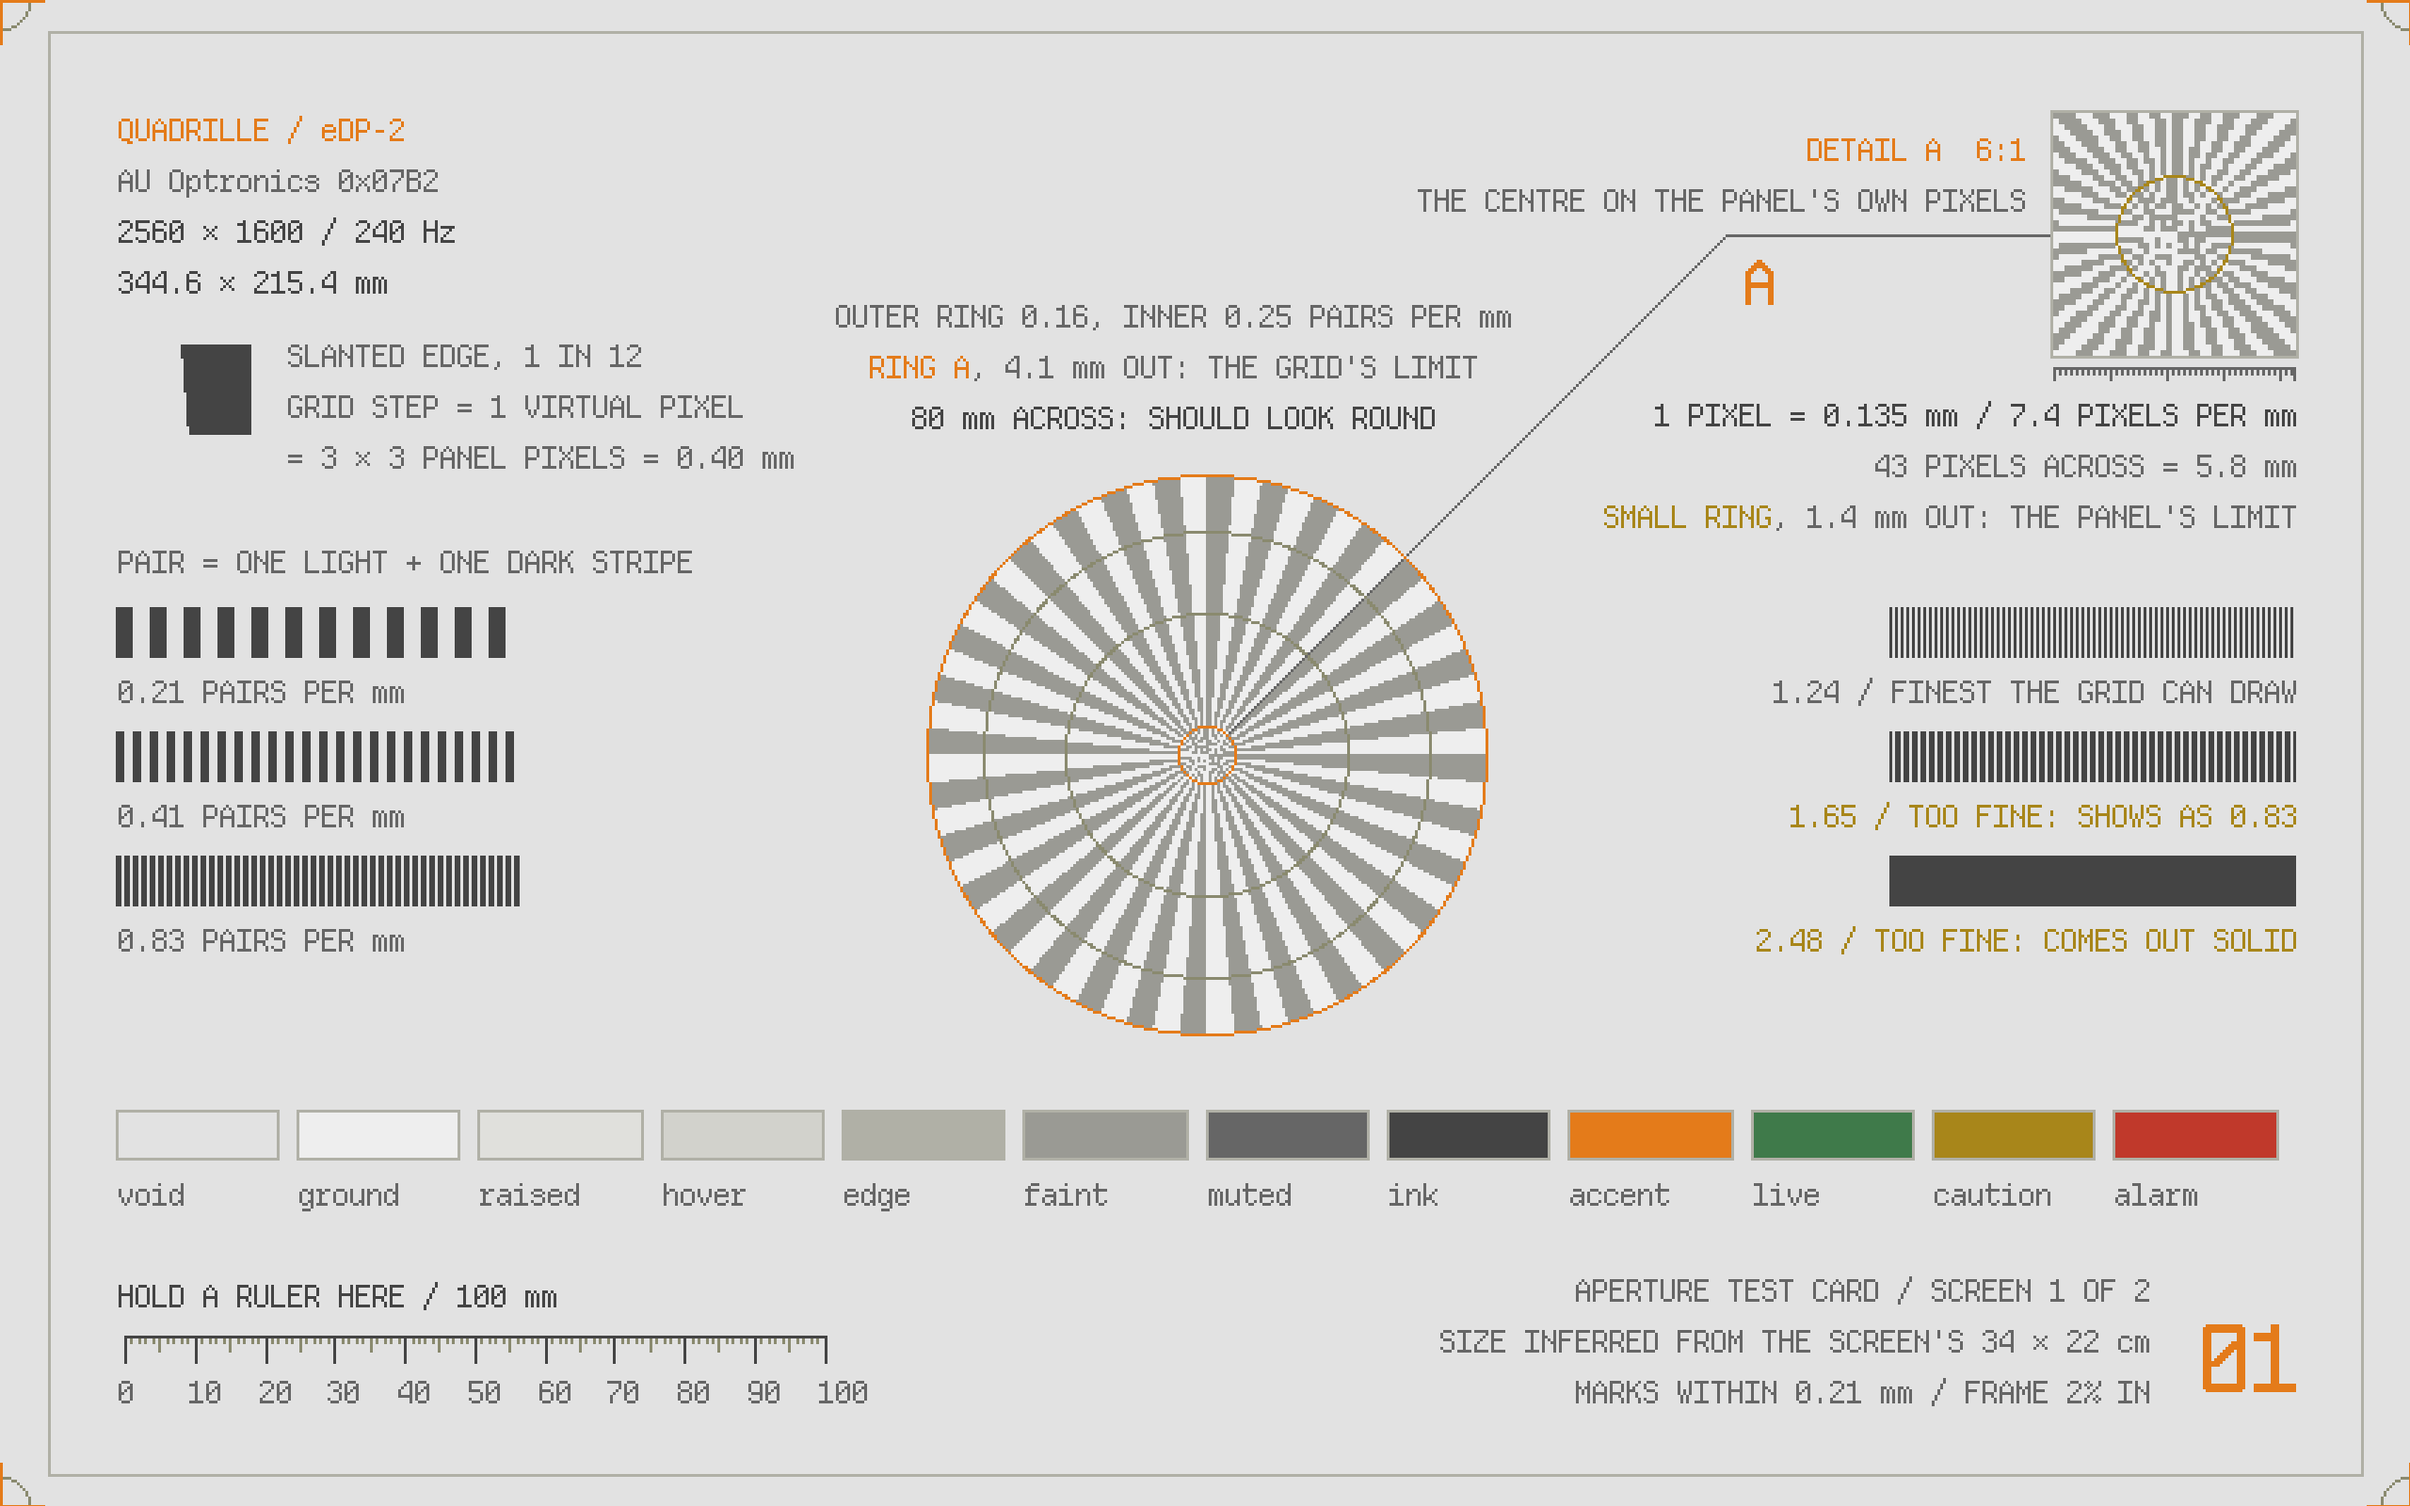
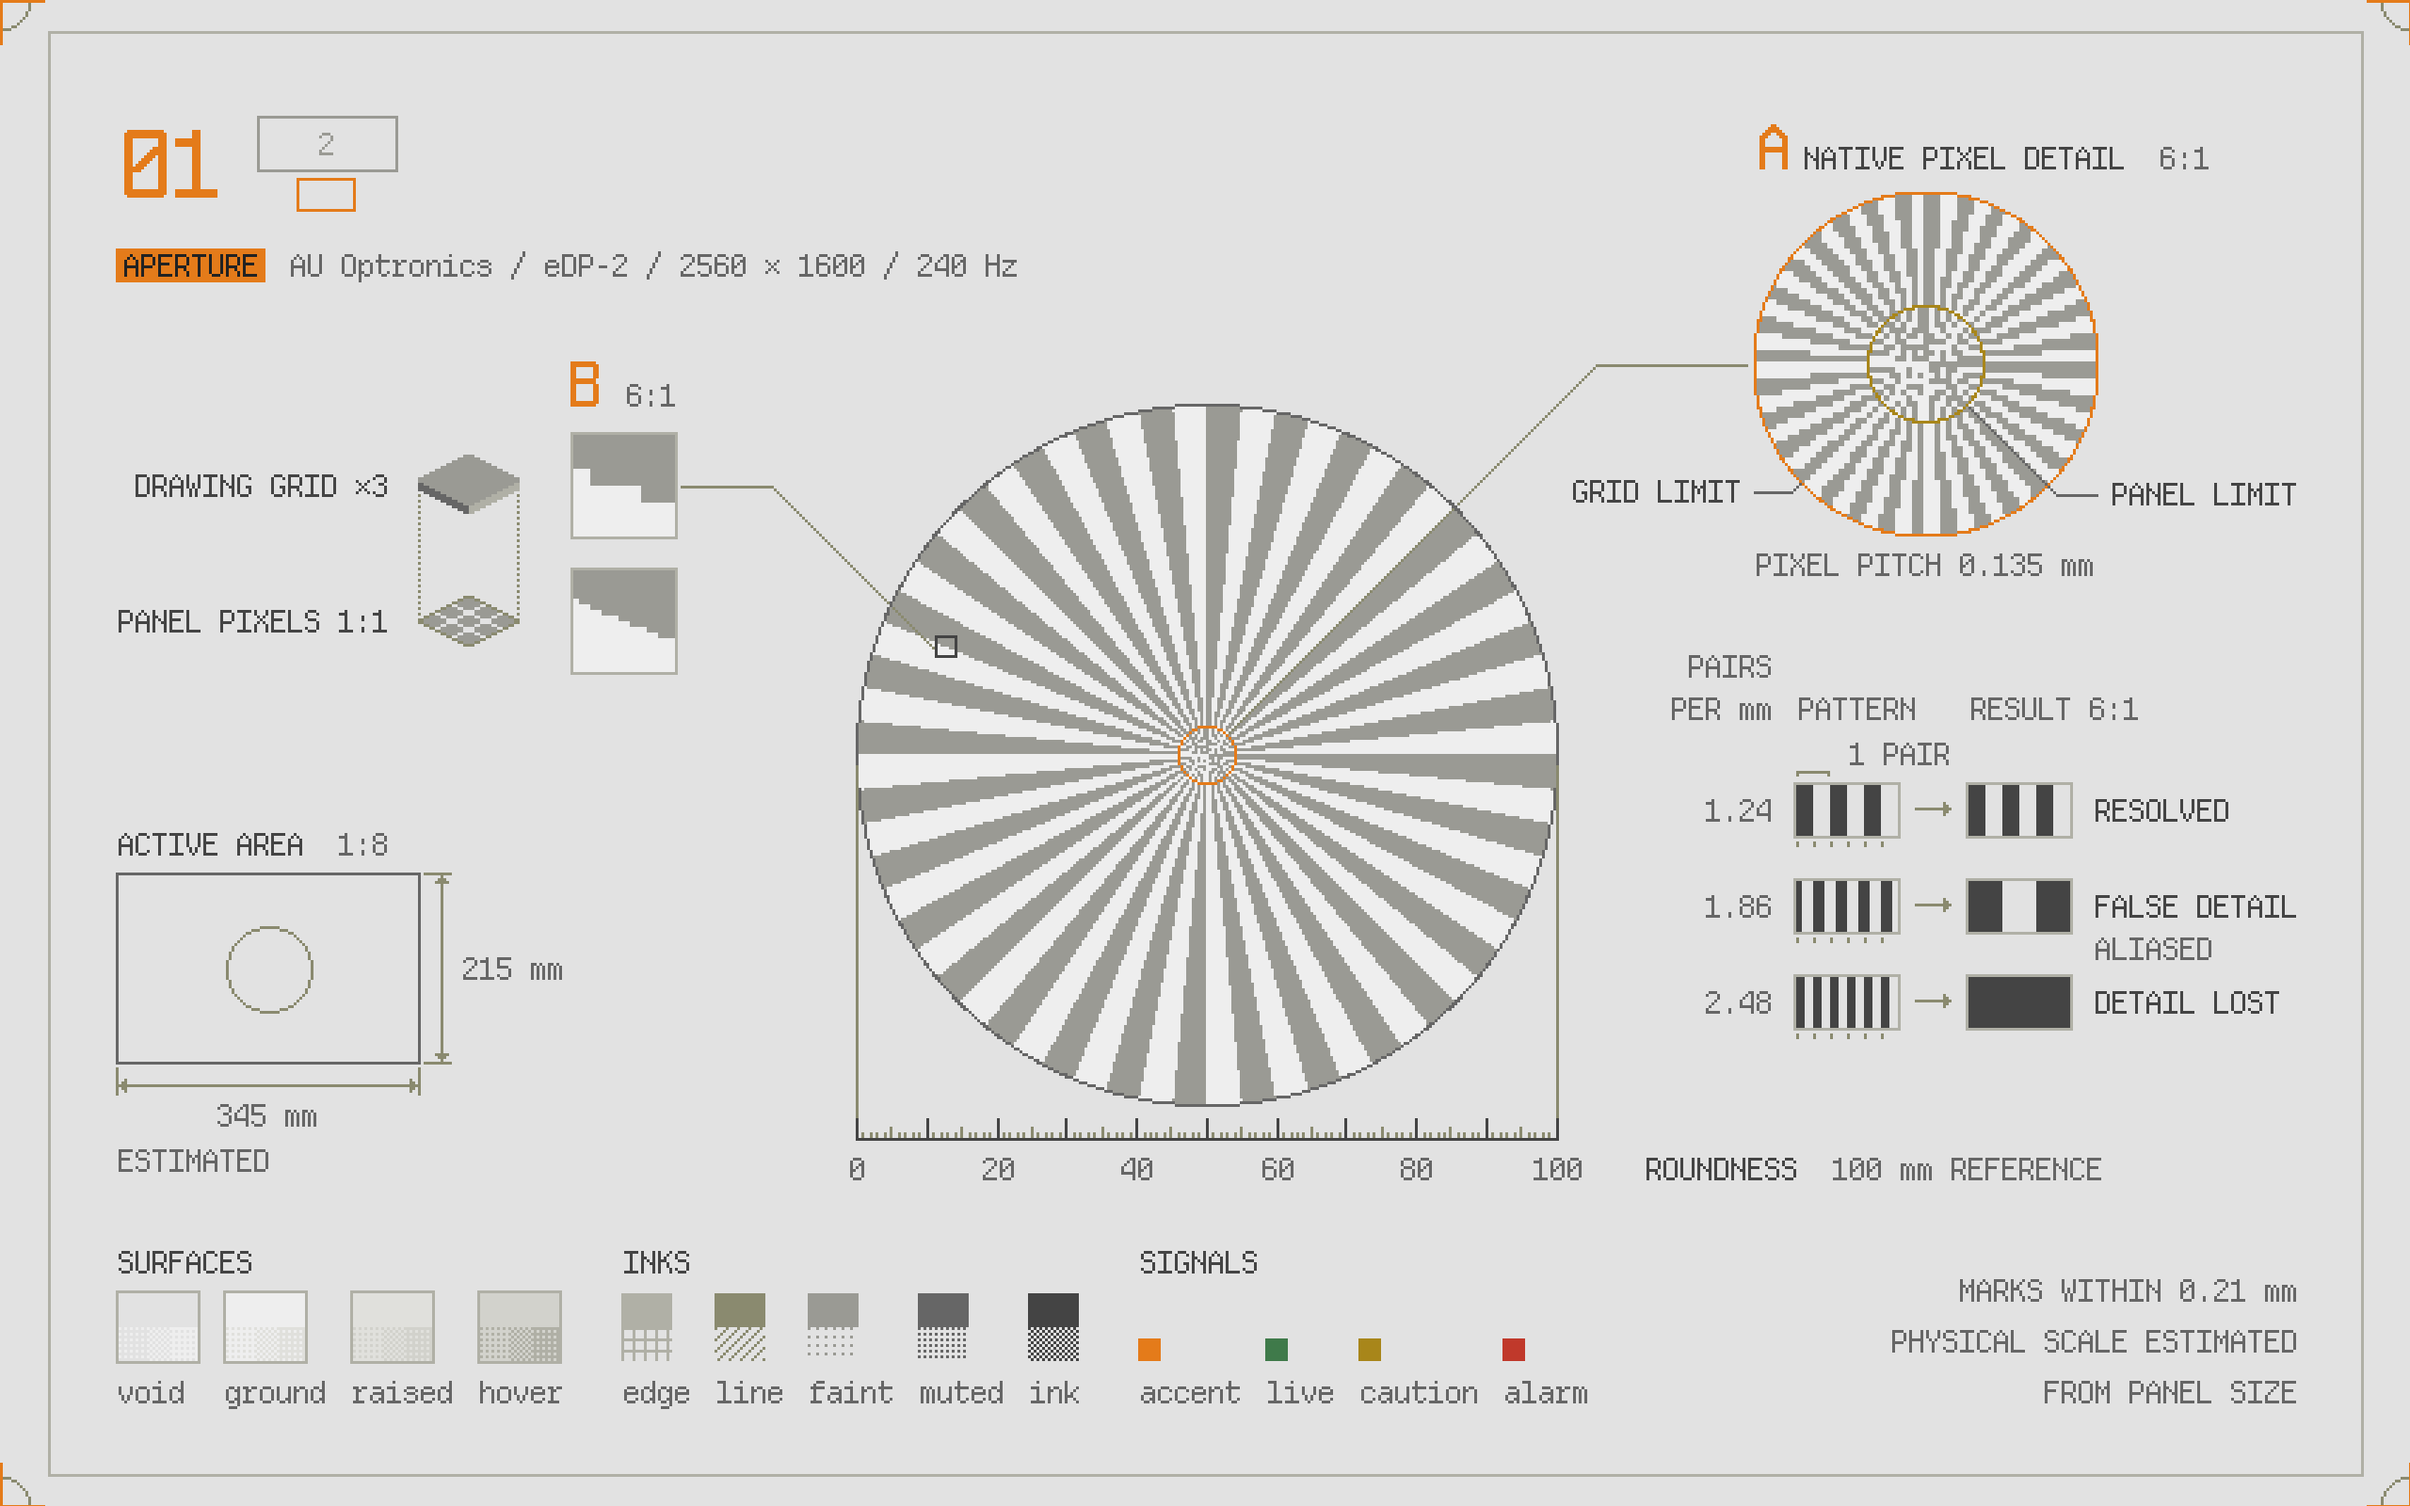
Document the portrait sheet; new test-card screenshots

diff --git a/plugins/NOTES.md b/plugins/NOTES.md
@@ -1101,46 +1101,53 @@ changes**: give it a count, or a model that is edited in place. If a popup is ev
 
 ## Design
 
-Aperture is the per-output test card: a central 32-pair Siemens star, labelled
-stripes, the theme's roles as swatches, a slanted edge, corner marks, a 2% frame and
-a 1:1 ruler, laid out inside the frame with a 24 vpx gutter. Corners balance: the
-callsign (top left), DETAIL A (top right), the ruler (bottom left), the title block
-and the native large screen number (bottom right); the palette runs above them.
+APERTURE is a technical portrait of one display, drawn on that display's own grid.
+Reading order: the star (the main drawing) -> the few labels on it and its two views
+-> the technical details. Hierarchy comes only from native sizes (the 3x numeral, 2x
+callout letters, the body face), colour role (`ink` names features, `muted` carries
+numbers, `line` is construction, quieter than what it explains) and one inverse label,
+APERTURE. Each part is a module drawing whole virtual pixels through `Pen.js`; the star,
+DETAIL A and B all sample one function (`Star.js`), so they are views of one thing.
 
-**Star tone.** Full-contrast ink on void was the loudest thing on the desktop. The
-wedges are now `faint` on `ground` (a quiet disc), chosen from three role pairs
-rendered for TERMINAL and PAPER (`wallpaper.py --explore`): `edge` on ground was
-calmest but fades to 1.6-1.9:1 (WCAG) in four themes; `muted` on ground (4.1-6.5:1)
-is still loud. Faint on ground (1.9-2.5:1 in all five) keeps the 32 pairs and the
-centre's noise plainly visible in every theme. Full contrast stays where contrast is the point: the
-stripes and the slanted edge. The detail view uses the star's own tones, so it reads
-as the same object.
+**Layout** (the critique's map, chosen from three rendered arrangements: "corners",
+"subjects" (the display left, the grid right: an overloaded right column on the
+laptop) and "chain" (the star off centre with its views beside it: on the laptop the
+star fell to 50 mm); renders under `/tmp/quadrille-portrait-20261007/arrangements/`).
+Top left the monitor's number with the locator (every output in the compositor's
+configured layout, this one in accent) and one metadata line (the model is dropped
+before anything is cut); B under it; DETAIL A top right with the samples under it; the
+elevation bottom left; the materials and one note along the bottom. Parts are placed
+first, then the star is the largest whole 10 mm that clears them by 16 vpx (100 mm on
+the laptop, 180 on the Dell); a part that leaves no 60 mm star makes way whole. Tall
+sheets put B and DETAIL A side by side above the star and drop the materials.
 
-**Words.** Every label is a plain, true sentence: PAIR = ONE LIGHT + ONE DARK STRIPE,
-TOO FINE: SHOWS AS 0.83, SHOULD LOOK ROUND, SIZE INFERRED FROM THE SCREEN'S 34 x 22
-cm. "Virtual pixel" is defined once, beside the slanted edge whose steps show it.
+**The star** is faint on ground with a muted rim; its accent grid-limit ring (32/pi vpx)
+is the detail circle A. Its diameter is dimensioned from its widest points and the
+dimension line is the millimetre scale: ROUNDNESS and the 100 mm REFERENCE are one
+drawing. **DETAIL A** is exactly the disc inside that ring at 6:1 on the panel's own
+pixels, so its accent rim is the same ring: GRID LIMIT on the rim, PANEL LIMIT on the
+caution ring (32/pi panel pixels), and the pixel pitch. **B** takes an 8 x 8 (6 x 6 on
+the laptop) window of the star's own pixels at a wedge edge, marked on the star and led
+to the view, and shows it on the drawing grid (each step x3 on the laptop, x2 on the
+Dell) and on the panel's pixels, with one grid pixel lifted off its ps x ps panel pixels
+in 2:1 isometric. It depicts the renderer's grid, never the panel's construction.
+**PATTERN -> RESULT**: gratings of 2, 4/3 and 1 vpx period at 6:1, their results drawn
+by the sheet's own raster (a point sample at each virtual pixel; the grid's sample
+points are ticked under the pattern): RESOLVED, FALSE DETAIL (ALIASED: a 4 vpx period),
+DETAIL LOST (a flat patch); pairs per mm defined once. **The elevation** is the active
+area at its true aspect at a stated 1:N that holds on screen (1:8 on both outputs):
+whole millimetres and ESTIMATED when inferred from EDID, `~` when assumed, one decimal
+when measured; the star's circle is drawn in it at the same scale. **The materials**:
+SURFACES flat over a stepped Bayer ramp to the next surface, INKS flat over the ink as
+grid, hatch, dots and Bayer, SIGNALS as small chips. One footer note carries the
+physical-scale qualification with the mark tolerance.
 
-**Limits.** Ring A (accent) is where the wedges turn to noise on the virtual grid
-(32/pi vpx from the centre). The right-hand stripes are that limit and what lies past
-it: 2 vpx (the finest the grid draws), 1.5 vpx (aliases to half its frequency), 1 vpx
-(comes out solid). The old "panel limit" stripe was a 1.24 lp/mm alias labelled 3.71;
-the panel's limit is now shown only where it is true: DETAIL A redraws the star's
-centre on the panel's own pixels, each one a block of whole virtual pixels (6:1 on
-both outputs: 2 vpx a pixel on the laptop, 3 on the Dell), with ring A and the
-panel's own limit ring (caution, 32/pi pixels) drawn in it, a pixel scale, the pitch
-(0.135 / 0.232 mm, 7.4 / 4.3 pixels per mm) and the pixels across. A 45-degree
-leader leaves ring A along a wedge boundary to the inset; where a shoulder does not
-fit (portrait), a short leader ends at the letter A.
+`Role.onAccent` did not follow a theme change inside the wallpaper (it stayed at its
+default while every other role updated); Graticule.qml reads it through `Role.stated`.
 
-Rings are drawn the way a pixel artist draws them (pixels within half a pixel of the
-radius), so the outline is 8-fold symmetric with no nubs at the compass points.
-
-`python3 plugins/tools/wallpaper.py OUT` renders every case (the real layout from each
-output, side by side, stacked, three outputs, portrait, single, estimated, 1920x1080 at
-1, 2560x1440 at 1.5) in all five themes and checks rulers, wedges against independent
-angles, ring pair counts and frequencies, bursts, the inset pixel by pixel, swatch
-outlines, outline roundness and crisp.py; `node plugins/tools/wallpaper-test.js`
-asserts the geometry (nothing dropped, nothing touching). `--nested` (QA/QB, GPU)
-passed too. The physical model, the live overlay, event-driven redraw and the Settle
-first-frame gate are unchanged. Not yet seen live: the session was locked when the
-refinement was finished, and a locked shell is never restarted.
+Checks: `node plugins/tools/wallpaper-test.js` (the geometry of every case),
+`python3 plugins/tools/wallpaper.py OUT` (QML renders of every case in five themes,
+crisp.py, and each module's PNG check from `plugins/tools/aperture/`), and per module
+`node plugins/tools/aperture/<module>-test.js`; `plugins/tools/aperture/element.py`
+renders one module alone. The physical model, the live overlay, event-driven redraw and
+the Settle first-frame gate are unchanged.

diff --git a/README.md b/README.md
@@ -6,9 +6,11 @@ Omarchy themes, Departure Mono drawn without antialiasing in every toolkit, a
 whole-pixel QML bar, menu, OSD and notifications for the Omarchy shell, and
 panels drawn by quadrille itself as Wayland layer-shell surfaces.
 
-The desktop is a calibrated drawing set: active monitor elevations, a true-size
-100 mm ruler and a sparse sheet frame. Its click-through cursor draws live CAD
+Each monitor's wallpaper, APERTURE, is a calibrated technical portrait of that
+display, drawn on its own pixel grid. Its click-through cursor draws live CAD
 measurements that update as the pointer moves whenever the overlay is enabled.
+
+![APERTURE on the laptop (eDP-2, 3 physical pixels per virtual pixel)](plugins/screenshots/testcard-terminal-laptop.png)
 
 ![The five themes, as the bar draws them](plugins/screenshots/themes.png)
 
@@ -83,15 +85,18 @@ and 796.6 × 333.5 mm; these are inferred sizes. A mark rounds to the nearest vp
 half a vpx, conservatively rounded upward; it is not a calibration guarantee.
 Missing EDID uses an explicitly estimated density and `~` labels.
 
-Each output draws its own static test card: a calibrated Siemens star in quiet
-theme tones, labelled stripes, the theme's role colours as outlined swatches, a
-slanted edge, corner marks, a 2% frame and a true-size ruler. The card says what
-it shows in plain words, and what this grid cannot show: ring A marks where the
-star turns to noise on the virtual-pixel grid, and DETAIL A redraws the centre on
-the panel's own pixels at 6:1 with their pitch. Inferred sizes say so; unknown
-ones carry `~`. Binary patterns are precomputed into an exact texture on
-display/theme events; the wallpaper does no work between changes. The live cursor
-overlay is separate.
+Each output draws its own static sheet, APERTURE: the monitor's number beside a
+miniature of the configured desktop layout; a calibrated Siemens star (100 mm on the
+laptop, 180 on the Dell) whose diameter dimension is a true-size millimetre scale;
+DETAIL A, the disc inside the star's grid-limit ring redrawn 6:1 on the panel's own
+pixels; B, one virtual pixel taken apart into its 3 x 3 (laptop) or 2 x 2 (Dell) panel
+pixels beside an edge of the star at both resolutions; fine stripes beside what the
+grid really draws from them (resolved, false detail, detail lost); a dimensioned
+elevation of the active area at a true 1:N; the theme's roles as surfaces, inks and
+signals. Inferred sizes are marked ESTIMATED; unknown ones carry `~`. Binary patterns
+are precomputed into an exact texture on display/theme events; the wallpaper does no
+work between changes. The live cursor overlay is separate. Design notes:
+`plugins/NOTES.md`, "Design".
 
 An optional `~/.config/quadrille/displays.toml` supplies measured dimensions.
 Nothing creates it by default. Replace these example sizes with measurements;

diff --git a/docs/RESUME.md b/docs/RESUME.md
@@ -14,6 +14,9 @@ The current overlay is live by default (`--overlay-rest-ms`), per layershell/NOT
 Refined the same day: calmer star (faint on ground), plain wording, outlined swatches,
 balanced corners and DETAIL A (the centre on panel pixels, 6:1); renders under
 `/tmp/quadrille-testcard-20261006/refine/`.
+2026-10-07: redesigned as a per-monitor technical portrait (locator, elevation, B
+construction, pattern/result samples, materials; modules beside Drafting.js); arrangements
+and final renders under `/tmp/quadrille-portrait-20261007/`, rationale in NOTES "Design".
 
 Written at a pause (2026-10-05, evening). Read this, then `plugins/NOTES.md` and
 `layershell/NOTES.md` (each has a "Status at pause" section from the agent that
